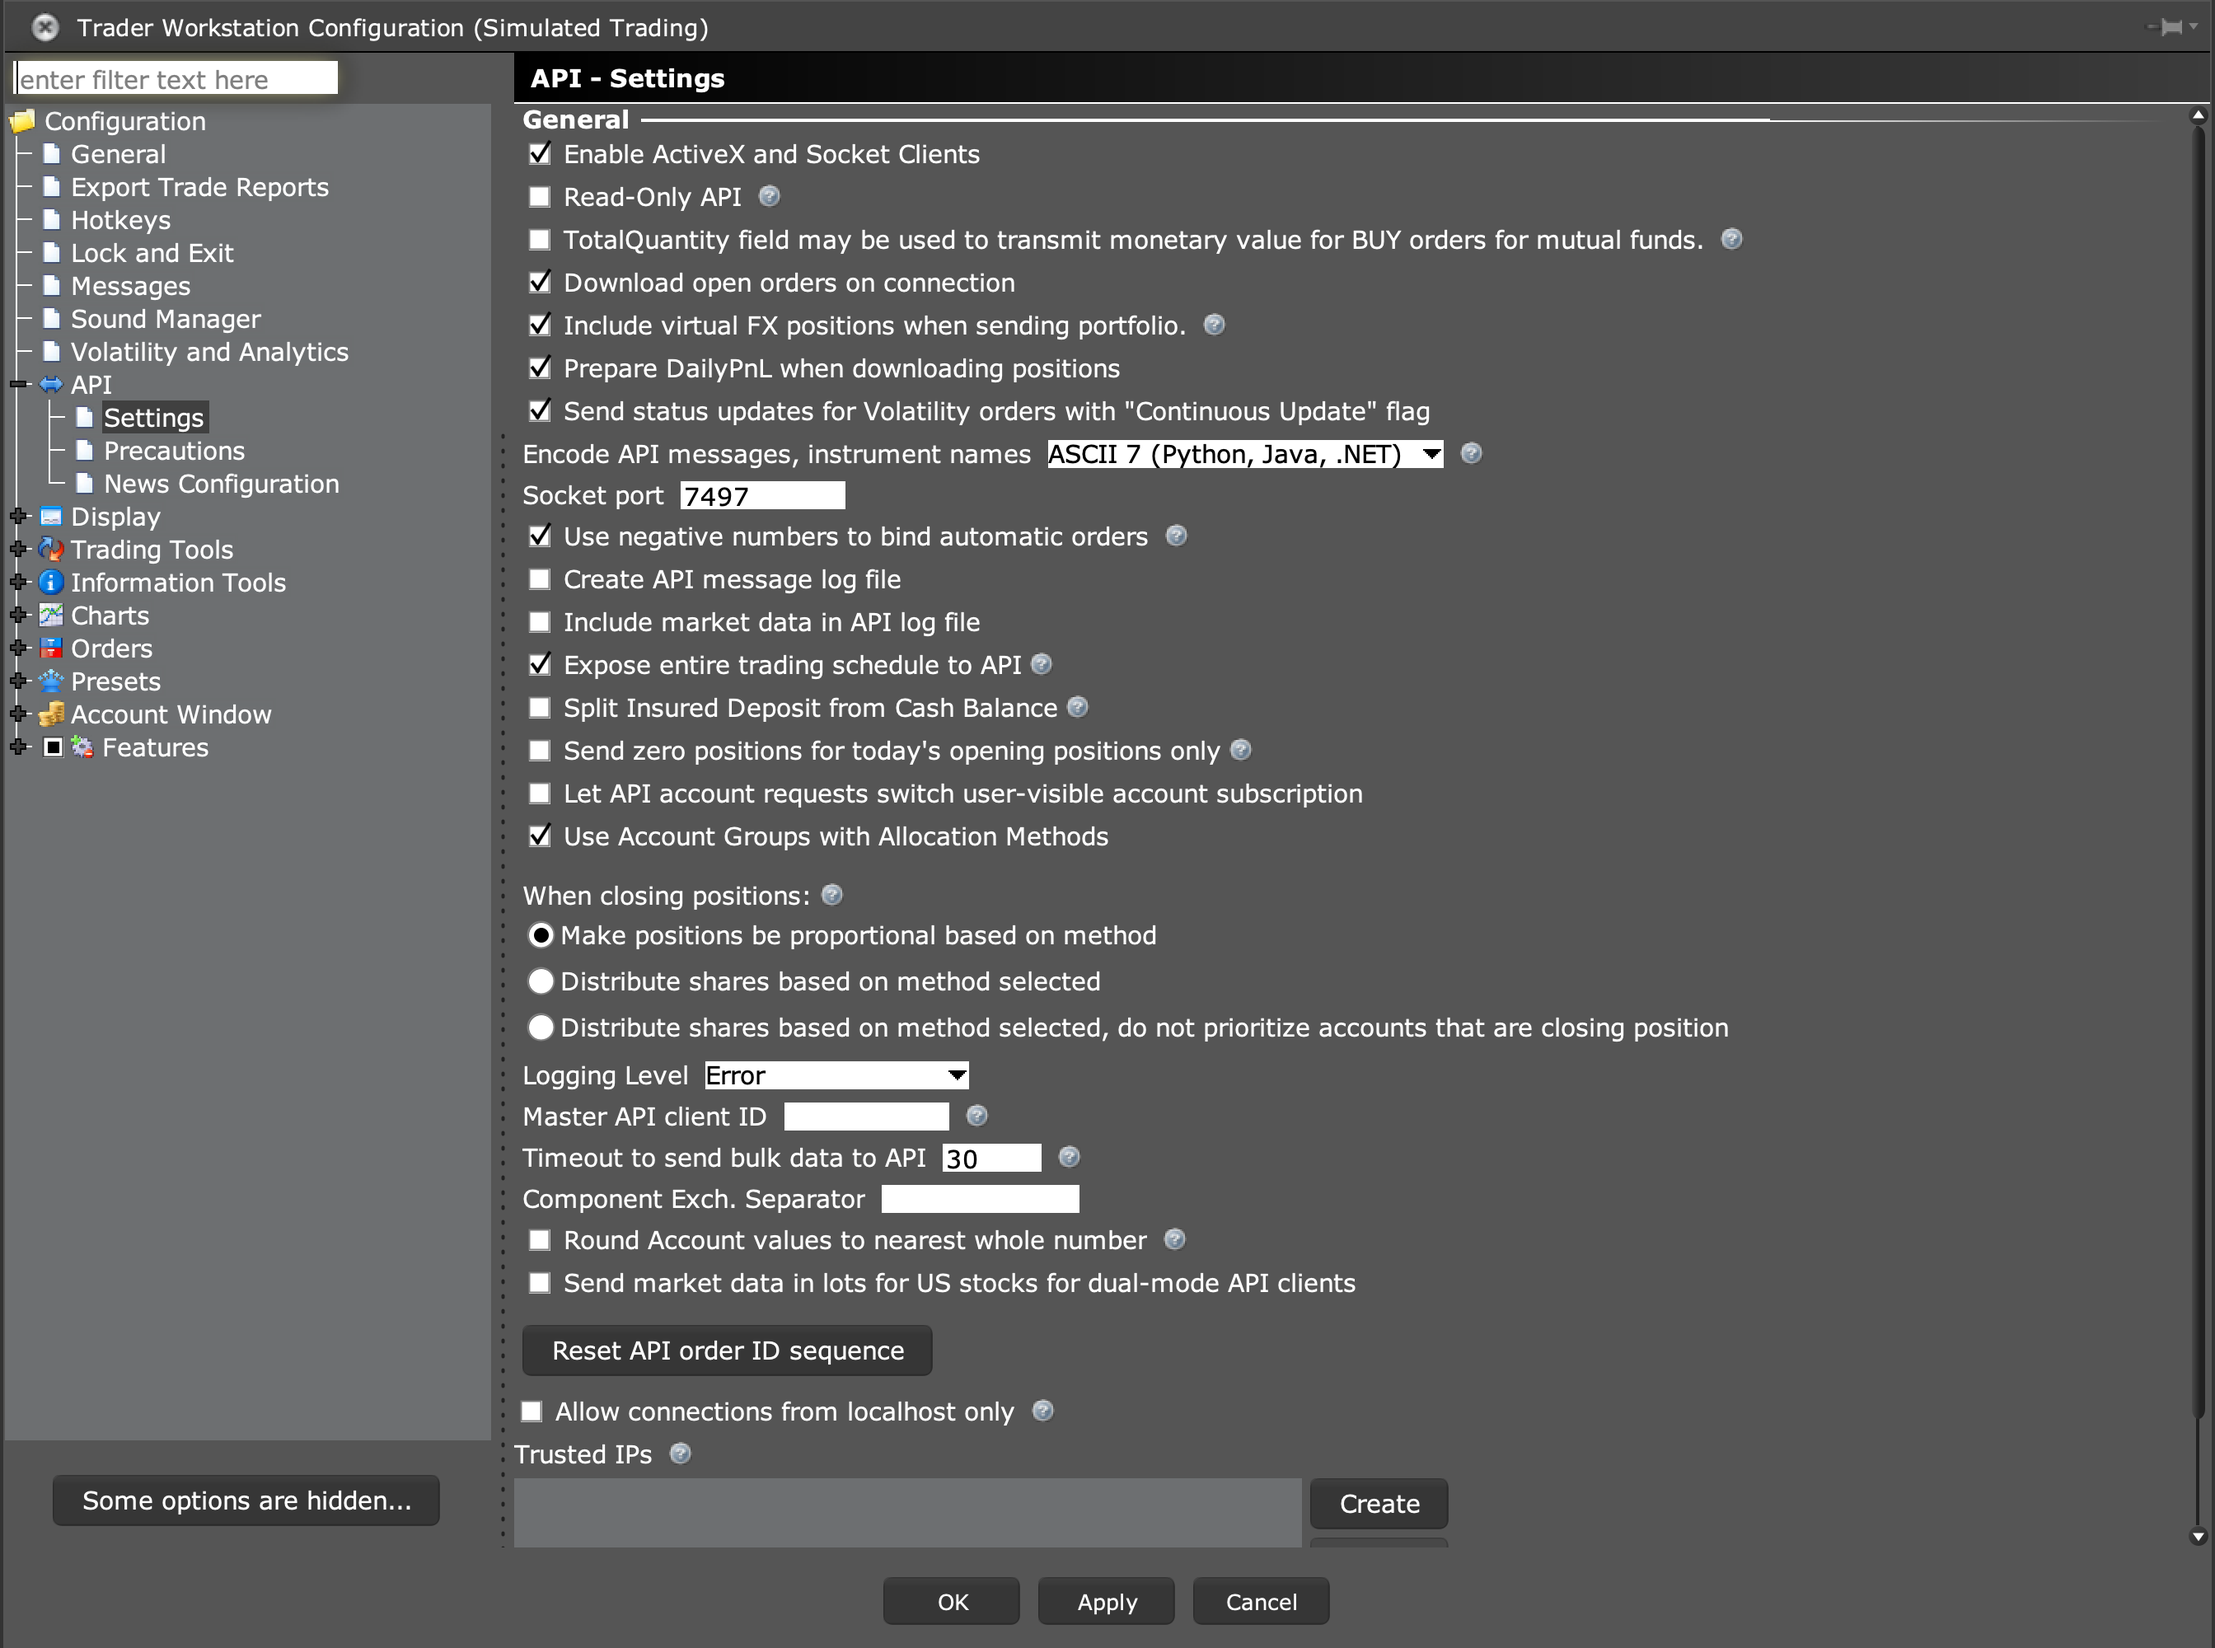
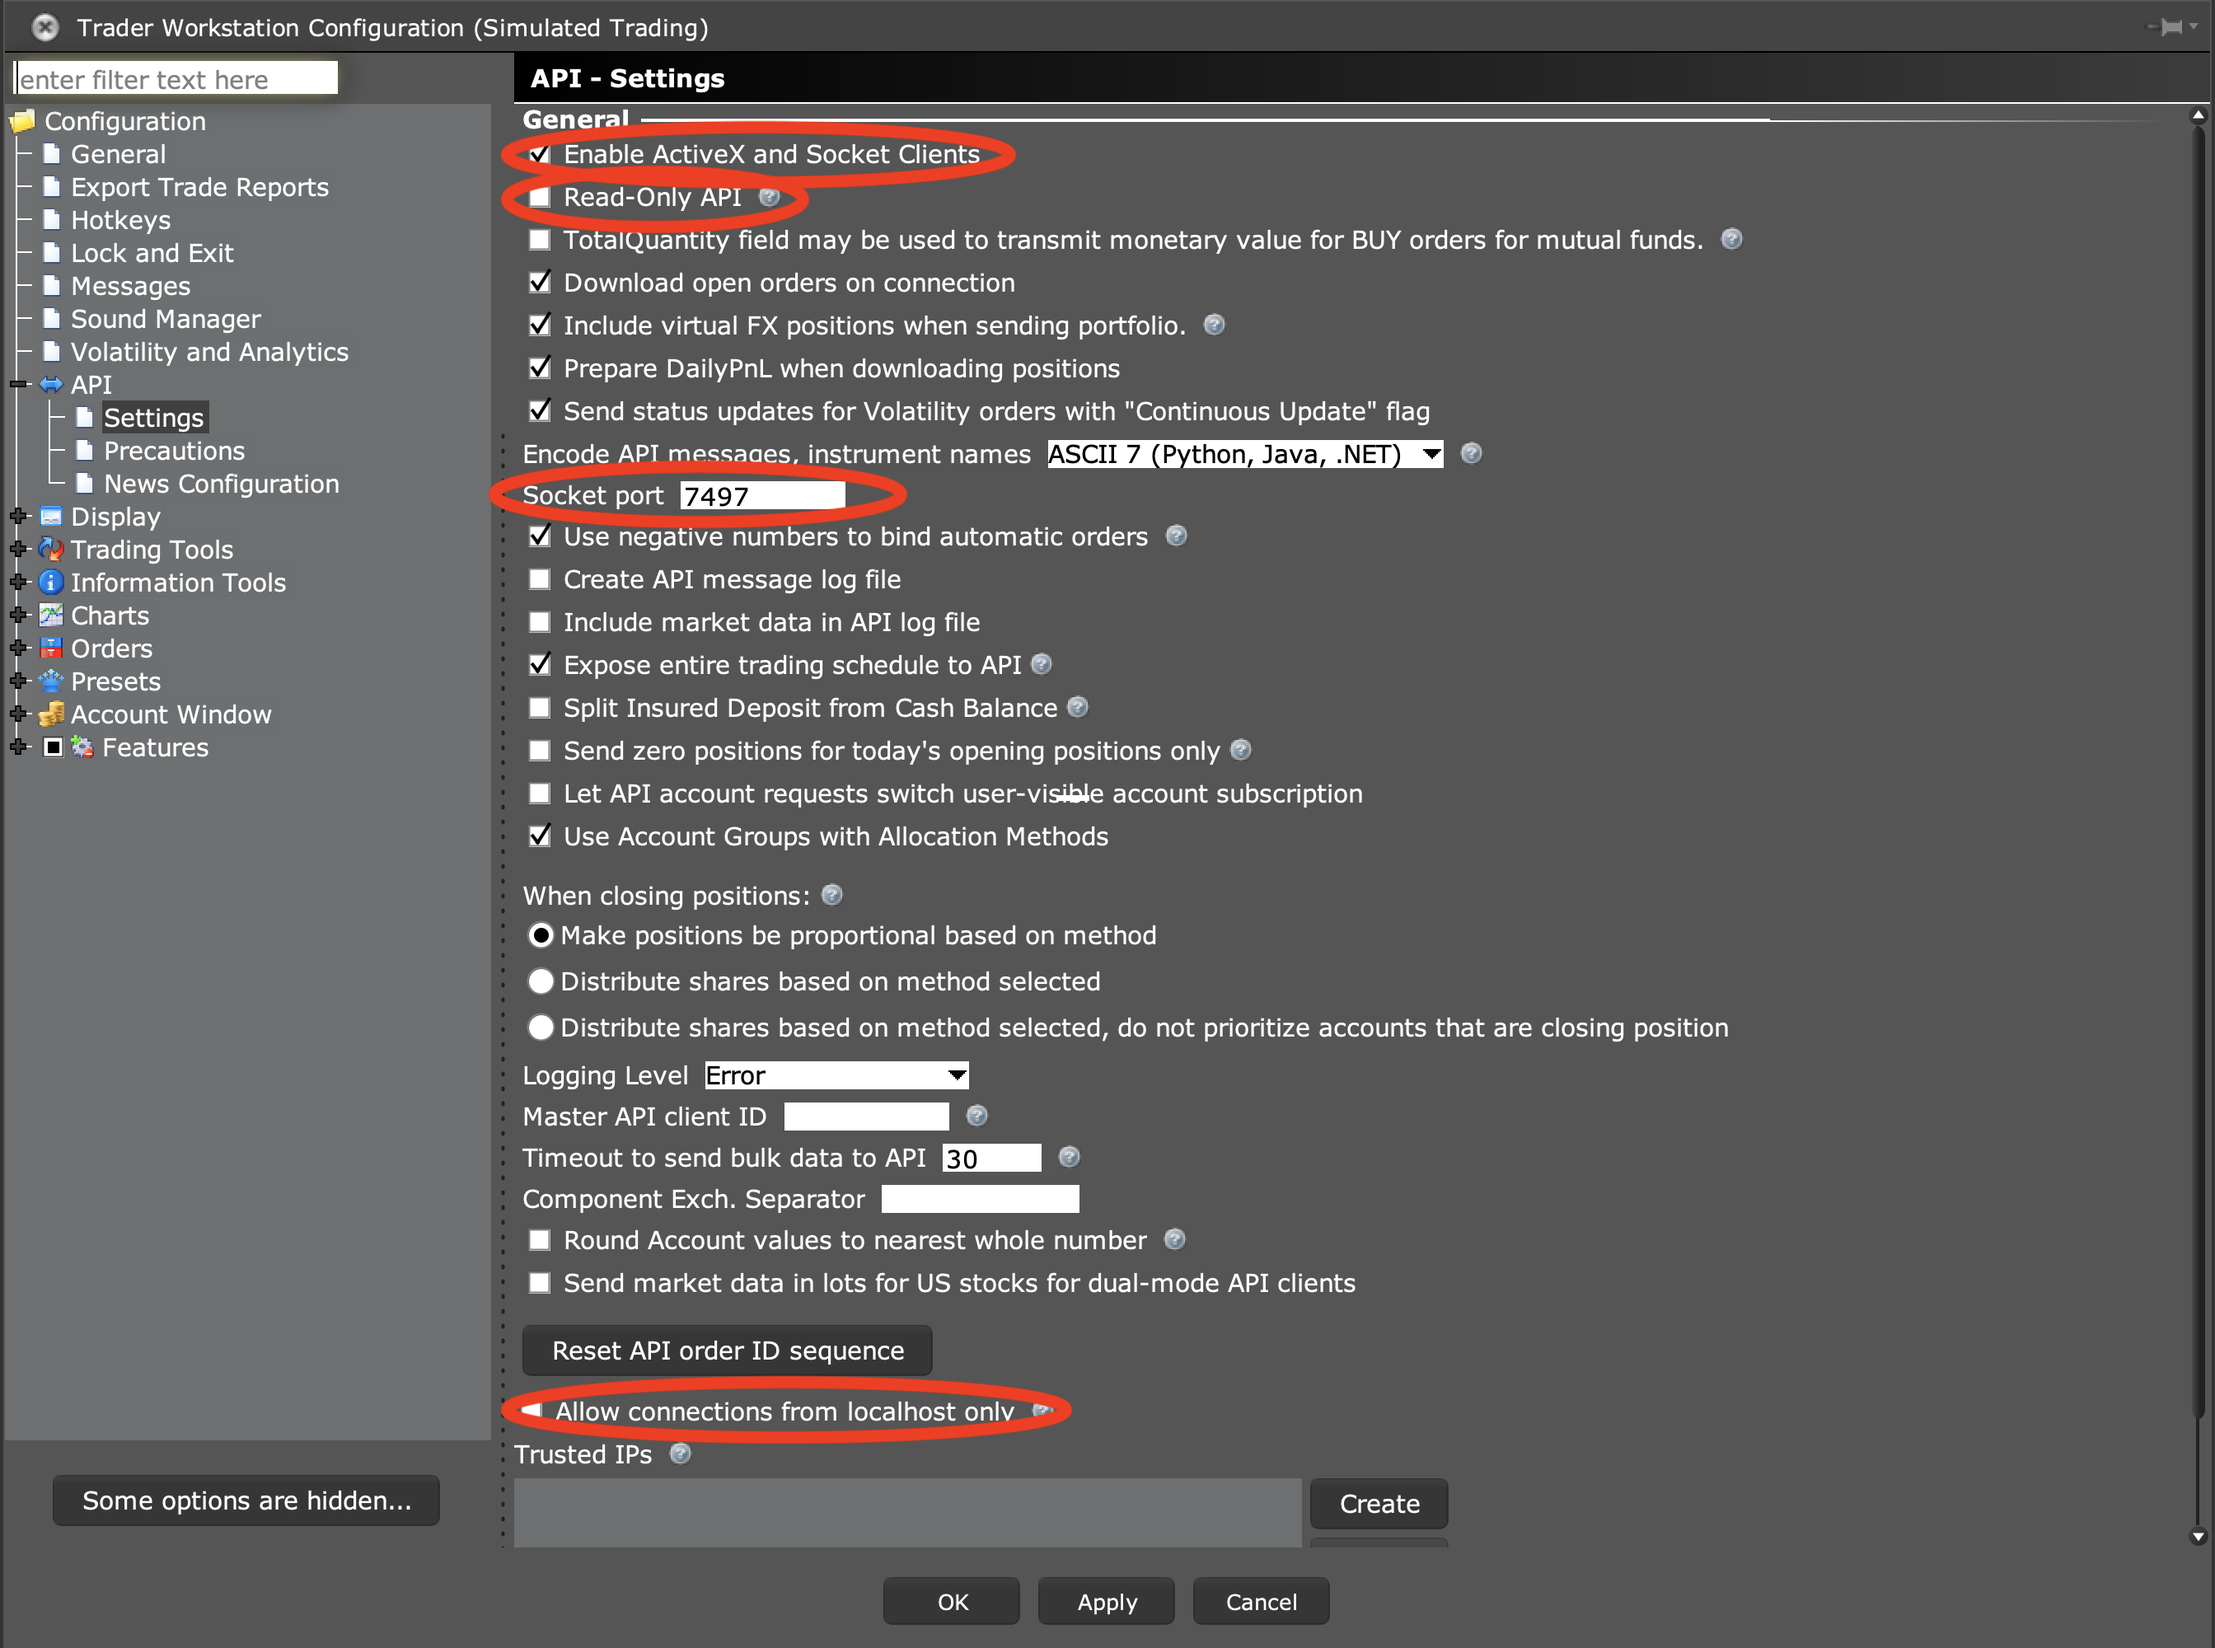
Add instructions on running Deephaven + IB

diff --git a/README.md b/README.md
@@ -32,9 +32,11 @@ To setup and configure the system:
 upper right corner.  ![](./docs/assets/config-gear.png)  
   In API->Settings, make sure:
 
-    * "Enable ActiveX and Socket Clients" is selected
-    * "Allow connections from localhost only" is not selected
-    ![](./docs/assets/config-api.png)
+    * "Enable ActiveX and Socket Clients" is selected.
+    * "Allow connections from localhost only" is not selected.
+    * "Read-Only API" is selected if you want to prevent trade submission from [deephaven-ib](https://github.com/deephaven-examples/deephaven-ib).
+    * Note the "Socket port" value.  It is needed when connecting [deephaven-ib](https://github.com/deephaven-examples/deephaven-ib).
+  ![](./docs/assets/config-api.png)
 
 ## Launch
 To launch the system:
